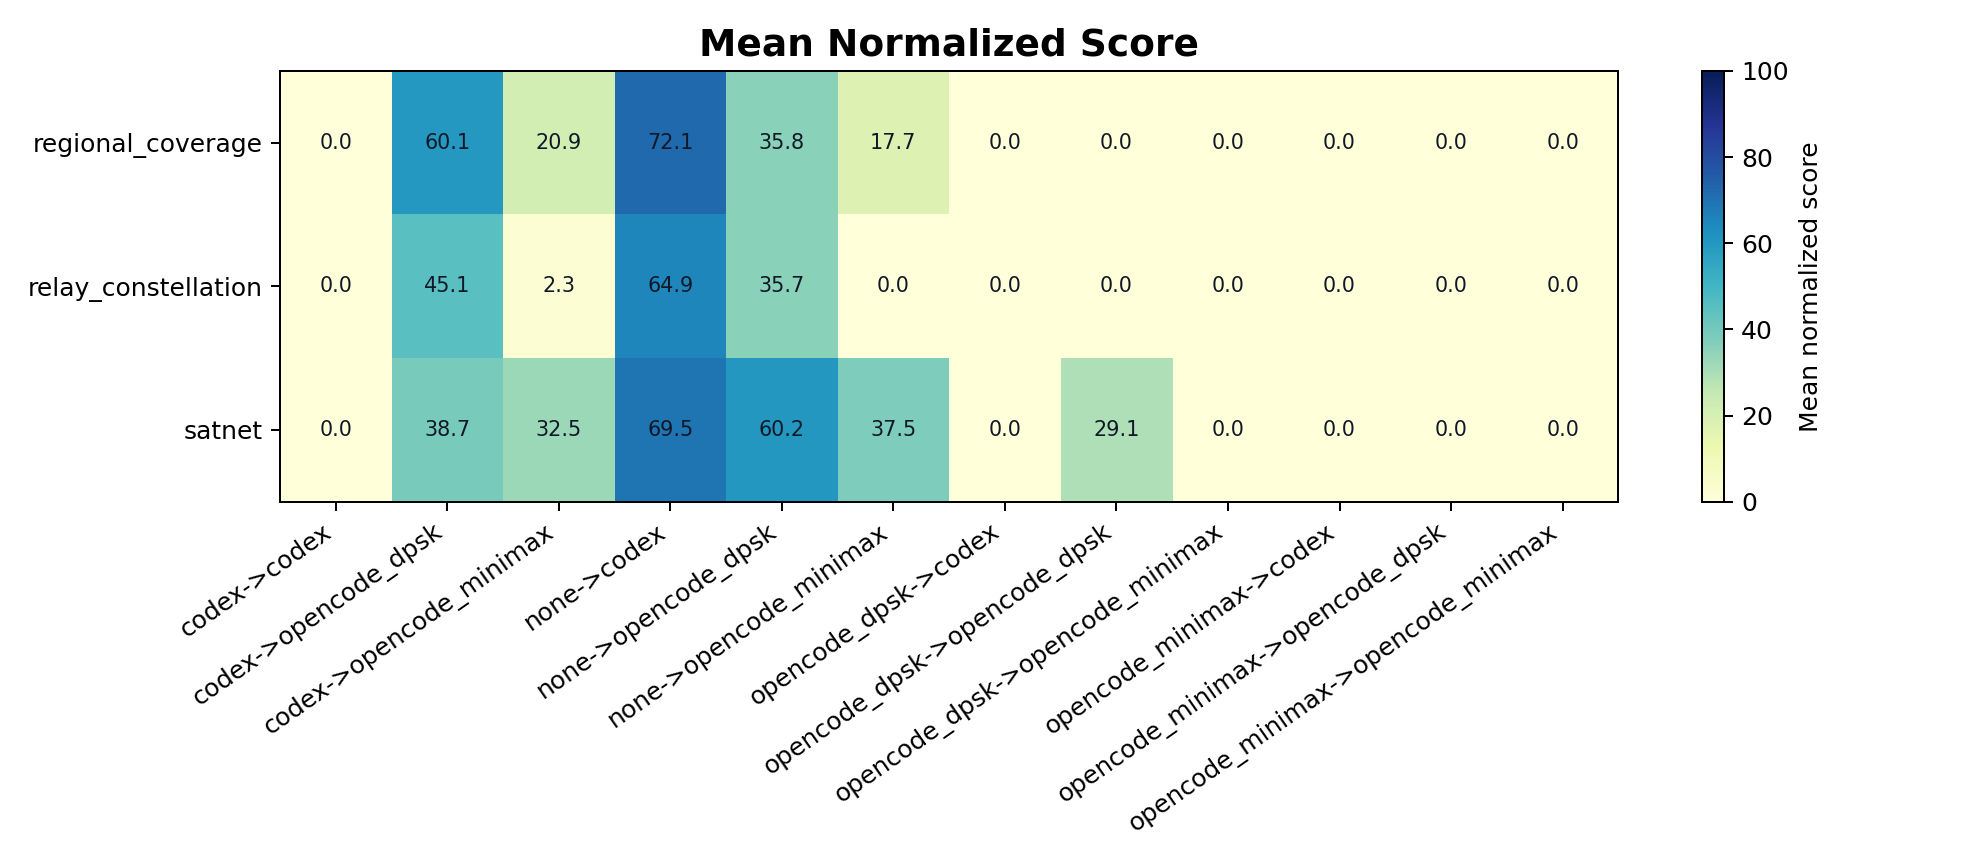
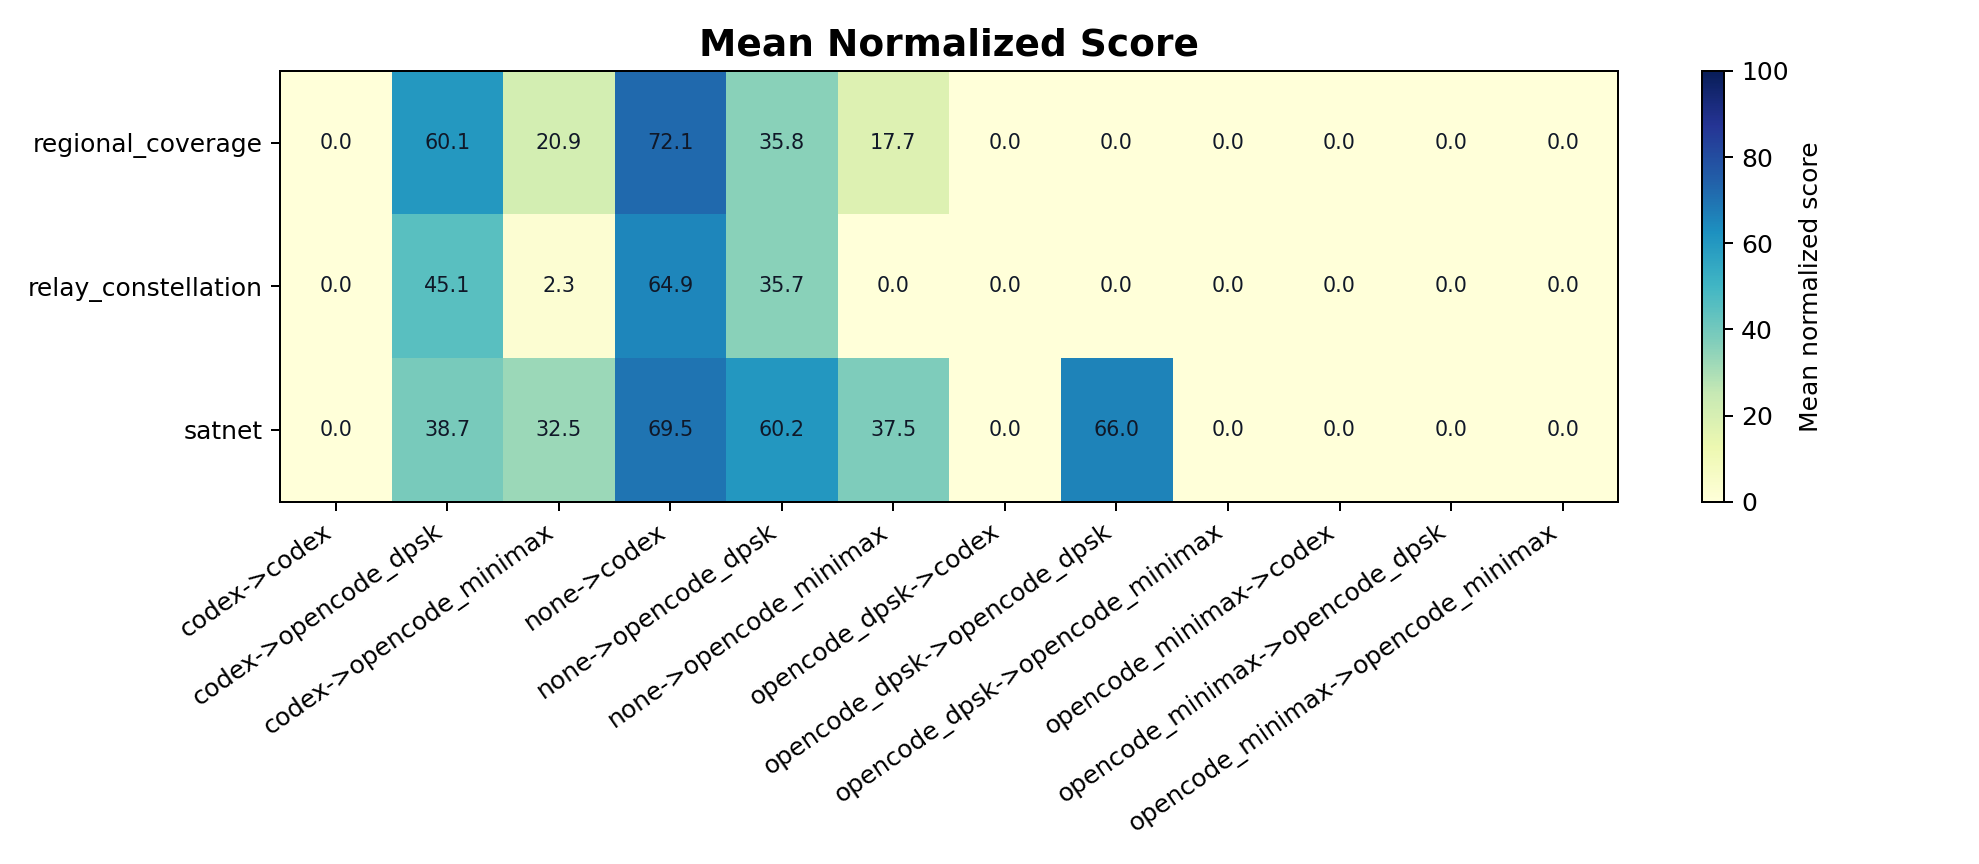
Update metrics and Claude report

Changed region(s): [[0.524, 0.4062, 0.6165, 0.5938]]

diff --git a/experiments/main_agentic/reports/case_studies/claude_private_worlds.md b/experiments/main_agentic/reports/case_studies/claude_private_worlds.md
@@ -13,6 +13,8 @@ Here, **authority** means the root workspace contract and checker:
 
 The central examples are `stereo_imaging / claude_code / test / case_0002` and `case_0005`, but the pattern also appears in all five Regional Coverage Claude runs, four of five Relay Constellation Claude runs, `aeossp_standard` case 0005, and SPOT-5/SatNet edge cases. The counterexamples are equally important: Claude can recover when it performs an authority sweep over `/app/workspace`, reads `README.md`, and lets `/app/workspace/verifier` override its private model.
 
+This report keeps the Claude focus, but it now also compares nearby non-Claude traces. The comparison matters because private solver models are not inherently bad. Every successful space agent needs some private propagation, geometry, search, or scheduling model. The failure studied here is narrower: the private model becomes the task authority.
+
 ## Evidence Base
 
 Aggregate outcomes come from:
@@ -28,6 +30,15 @@ Aggregate outcomes come from:
 The intended workspace contracts are the prompt fragments under `experiments/_fragments/prompts/*/README.default.md`. The behavioral evidence comes from local trace artifacts under `results/agent_runs/experiments/main_agentic/matrix/.../claude_code/...` and the tracked trace-viewer exports under `experiments/main_agentic/reports/traces/data/events/`.
 
 Because `results/*` paths are local run outputs, treat them as diagnostic evidence. The stable report-level claims are anchored to the tracked reports, prompt fragments, benchmark contracts, and trace-viewer exports.
+
+Cross-model comparison uses the companion case studies:
+
+- `experiments/main_agentic/reports/case_studies/minimax_cross_benchmark_failure.md`
+- `experiments/main_agentic/reports/case_studies/stereo_imaging_opencode_dpsk_authority_drift.md`
+- `experiments/main_agentic/reports/case_studies/stereo_imaging_kimi_cross_track_overlap.md`
+- `experiments/main_agentic/reports/case_studies/relay_constellation_codex_success.md`
+
+Those reports are not imported as unquestioned conclusions. They are useful because they anchor the same authority-discipline question in other harnesses: did the space agent read the root contract, run the packaged verifier, and demote its private model when the verifier disagreed?
 
 ## What "Second Sweep" Means Here
 
@@ -254,6 +265,64 @@ No-authority runs produce three kinds of failure:
 
 The third category is the easiest to miss in aggregate reports because it can look like a valid but weak run. Trace inspection shows it is often a contract failure, not an optimization failure.
 
+## Cross-Model Comparison
+
+The private-world behavior is **not Claude-only** if the phrase means "a space agent builds a private model and sometimes lets it outrank the verifier." That broader failure appears in Minimax, DPSK, and Kimi traces too. But the clean Claude pattern is narrower and more severe: Claude often never reaches the authority contradiction at all. It builds the wrong interface, validates the wrong interface, and exits normally inside that alternate benchmark.
+
+The useful comparison is:
+
+| Harness | Typical authority pattern | Private-world flavor | Contrast with Claude |
+| --- | --- | --- | --- |
+| `claude_code` | Often `case/` first; authority discovery is early, late, or absent depending on benchmark. | Premature authority closure: inferred schema and private validation become the whole task. | Cleanest sealed-world pattern. Bad runs often have no README/verifier contact before finalizing. |
+| `opencode_minimax` | Frequently reads README and runs verifier, but unevenly and often too late. | Verifier contact without verifier discipline: private simulator survives contradiction, or valid-zero output is accepted as enough. | Less sealed than Claude; the official verifier is often visible, but it does not reliably reorganize the solver. |
+| `opencode_dpsk` | Usually acquires the README/verifier in stereo traces. | Verifier-authority drift during optimization: private access/footprint model guides decisions after official feedback. | More grounded than Claude on schema, but brittle under geometry and hard-validity pressure. |
+| `kimi_cli` | Usually reads README/verifier in the stereo traces. | Frame-binding failure: private coordinate convention remains misaligned with verifier signs. | Not a full invented benchmark; it knows the contract but binds one crucial physical interface incorrectly. |
+| `codex` | In the relay positive control, reads README early, writes a minimal valid baseline, and repeatedly uses verifier metrics. | Private scripts are search heuristics, not authority. | The clean counterexample: private model exists, but stays subordinate to README/verifier. |
+
+This makes "private world" a graded phenomenon rather than a binary label.
+
+### Minimax: Contact Without Discipline
+
+Minimax is the closest non-Claude analogue, but its failure is less sealed. The companion Minimax report found 23 of 35 tracked Minimax traces reading `/app/workspace/README.md` and 23 running the packaged verifier. That is materially different from Claude's no-authority regional and bad stereo runs.
+
+The problem is what happens after contact. In `stereo_imaging / opencode_minimax / case_0002`, Minimax never reads the README/verifier and writes claimed stereo pairs covering targets; that is a Claude-like schema-private failure. But many other Minimax failures are subtler. In relay, all five traces read the README and run the verifier, yet the aggregate service fraction is zero. In revisit, Minimax can see verifier-reported off-nadir violations and still finalize because the solution "structure" looks right to its private Brahe-access proxy. In regional and AEOSSP, it often repairs the schema but continues trusting weak geometry or accepts valid files with near-zero objective value.
+
+So Minimax does have private-world moments, but its dominant pattern is not "never saw authority." It is "saw authority, then treated it as a debugger or filter rather than a governing contract."
+
+### DPSK: Grounded, Then Drifting
+
+The DPSK stereo traces are useful because they separate schema discovery from acceptance discipline. DPSK usually lists the workspace, reads the README, loads Brahe, and runs the local verifier. Its failure is therefore not the Claude failure of inventing `stereo_observations` without seeing that `actions` are required.
+
+DPSK's failures happen later. It builds a substantial private model for access windows, signed steering, strip overlap, and scheduling. In `case_0001`, the verifier reports a valid schedule with `coverage_ratio=0.0` and `normalized_quality=0.0`; DPSK still accepts hard validity as the deliverable even though all evaluated pairs have zero overlap. In `case_0004`, it finds a high-scoring derived product schedule but finalizes while the verifier still reports hard violations. In `case_0003`, the same harness succeeds after fixing the across-track sign convention and preserving final verifier validity.
+
+That pattern is weaker than Claude's sealed private world but still belongs in the same family: the private model becomes the active source of truth for the next action. The difference is that DPSK usually starts from the right authority hierarchy and then lets it decay.
+
+### Kimi: Contract-Aware, Frame-Misaligned
+
+Kimi's stereo failure is even less like Claude's. Kimi usually reads the README and uses the verifier. It knows the submission is supposed to be raw observation `actions`, and it spends much of the run trying to reconcile access, overlap, convergence, and pixel scale.
+
+The private component is a coordinate-frame model. Kimi expresses `off_nadir_across_deg` in the opposite signed cross-track convention from the verifier in three productive stereo cases. That can leave observations hard-valid while boresight strips miss the target AOIs, so the official metric collapses to zero or near-zero. Counterfactual mirroring of `off_nadir_across_deg` dramatically improves `case_0002` and `case_0005`.
+
+This is a private-model failure, but not a full private-world failure. Kimi is inside the real benchmark contract. It just binds one high-leverage physical interface incorrectly and then debug-loops around the wrong suspects for too long.
+
+### Codex: The Counterexample
+
+The relay Codex case study is the strongest control. Codex also writes private scripts, private geometry estimates, and case-specific search code. The difference is hierarchy. It reads the README early, writes a minimal `added_satellites` plus `actions` solution before optimizing, checks the verifier, and treats verifier metrics as the final arbiter.
+
+That is exactly the distinction this report needs. Private modeling is not the bug. Private modeling is normal search. The bug is allowing the private model to define validity, schema, or score after the workspace has already provided a stronger authority.
+
+### What Is Claude-Specific?
+
+The Claude-specific behavior in these traces is not "uses private models" and not "can be wrong." It is the combination of:
+
+1. **case-first closure**: `case/` feels complete enough to define the benchmark;
+2. **durable invented interface**: the first serious solver/output encodes the inferred schema;
+3. **self-reinforcing validation**: later scripts consume the same invented fields they emit;
+4. **polished final confidence**: the final message reports coherent private metrics absent from the official run;
+5. **normal completion**: the run can end with `end_turn`, not timeout or crash.
+
+Other harnesses show pieces of this. Minimax sometimes invents schema; DPSK and Kimi sometimes let private physics outrank verifier feedback. Claude's bad runs are distinctive because the alternate contract becomes complete before external authority enters the loop. The result is not merely an incorrect approximation to the verifier; it is an alternate task.
+
 ## Mechanism
 
 Claude's failure mode has four stages.
@@ -334,4 +403,3 @@ When auditing future Claude traces, check these in order:
 - Did the final stop reason show a normal `end_turn` or a provider/timeout stop?
 
 For `stereo_imaging` case 0005, the answers are the bad signature: `case/` first, no README, no packaged verifier, private `verify.py`, wrong top-level key, final `end_turn`. That is a normal completed Claude run, and that is exactly the problem.
-

diff --git a/experiments/memory_accumulation/reports/satnet.md b/experiments/memory_accumulation/reports/satnet.md
@@ -15,8 +15,8 @@ Generated from the current `memory_accumulation` aggregate artifacts.
 | none | opencode_dpsk | 5 | 5 | 0 | 5 | 60.23 | success: 5 |
 | none | opencode_minimax | 5 | 5 | 0 | 4 | 37.54 | success: 4, verifier_invalid: 1 |
 | opencode_dpsk | codex | 5 | 0 | 5 | 0 | 0.0000 | missing_artifact: 5 |
-| opencode_dpsk | opencode_dpsk | 5 | 2 | 3 | 2 | 29.15 | missing_artifact: 3, success: 2 |
-| opencode_dpsk | opencode_minimax | 5 | 0 | 5 | 0 | 0.0000 | missing_artifact: 5 |
+| opencode_dpsk | opencode_dpsk | 5 | 5 | 0 | 5 | 65.97 | success: 5 |
+| opencode_dpsk | opencode_minimax | 5 | 1 | 4 | 0 | 0.0000 | missing_artifact: 4, verifier_invalid: 1 |
 | opencode_minimax | codex | 5 | 0 | 5 | 0 | 0.0000 | missing_artifact: 5 |
 | opencode_minimax | opencode_dpsk | 5 | 0 | 5 | 0 | 0.0000 | missing_artifact: 5 |
 | opencode_minimax | opencode_minimax | 5 | 0 | 5 | 0 | 0.0000 | missing_artifact: 5 |
@@ -62,10 +62,10 @@ Generated from the current `memory_accumulation` aggregate artifacts.
 | opencode_dpsk | codex | test | W50_2018 | missing_artifact | missing_artifact | missing_artifact | - | - | 0 | - | - | - | - | - |
 | opencode_dpsk | opencode_dpsk | test | W10_2018 | present | success | valid | true | 3113.9 | 71.69 | 913.2 | 211 | 0.2154 | 0.4860 | 220 |
 | opencode_dpsk | opencode_dpsk | test | W20_2018 | present | success | valid | true | 3327.8 | 74.04 | 1097.8 | 226 | 0.2143 | 0.3956 | 254 |
-| opencode_dpsk | opencode_dpsk | test | W30_2018 | missing_artifact | missing_artifact | missing_artifact | - | - | 0 | - | - | - | - | - |
-| opencode_dpsk | opencode_dpsk | test | W40_2018 | missing_artifact | missing_artifact | missing_artifact | - | - | 0 | - | - | - | - | - |
-| opencode_dpsk | opencode_dpsk | test | W50_2018 | missing_artifact | missing_artifact | missing_artifact | - | - | 0 | - | - | - | - | - |
-| opencode_dpsk | opencode_minimax | test | W10_2018 | missing_artifact | missing_artifact | missing_artifact | - | - | 0 | - | - | - | - | - |
+| opencode_dpsk | opencode_dpsk | test | W30_2018 | present | success | valid | true | 3246.6 | 61.86 | 1126.4 | 204 | 0.2941 | 0.6433 | 273 |
+| opencode_dpsk | opencode_dpsk | test | W40_2018 | present | success | valid | true | 3796.7 | 62.02 | 1094.6 | 186 | 0.3384 | 0.5038 | 241 |
+| opencode_dpsk | opencode_dpsk | test | W50_2018 | present | success | valid | true | 2229.7 | 60.23 | 892.8 | 186 | 0.2922 | 0.7143 | 202 |
+| opencode_dpsk | opencode_minimax | test | W10_2018 | present | verifier_invalid | invalid | false | 1257.5 | 0 | 662.9 | 177 | 0.3990 | 1 | 177 |
 | opencode_dpsk | opencode_minimax | test | W20_2018 | missing_artifact | missing_artifact | missing_artifact | - | - | 0 | - | - | - | - | - |
 | opencode_dpsk | opencode_minimax | test | W30_2018 | missing_artifact | missing_artifact | missing_artifact | - | - | 0 | - | - | - | - | - |
 | opencode_dpsk | opencode_minimax | test | W40_2018 | missing_artifact | missing_artifact | missing_artifact | - | - | 0 | - | - | - | - | - |

diff --git a/experiments/skill_injection/reports/relay_constellation.md b/experiments/skill_injection/reports/relay_constellation.md
@@ -16,7 +16,7 @@ Generated from the current `skill_injection` aggregate artifacts.
 | --- | ---: | ---: | ---: | ---: | ---: | ---: | ---: | ---: | ---: | ---: | ---: |
 | compact_domain | 10 | 9 | 9 | 0.9000 | 0.3545 | 0.1328 | 2.5000 | 133.5 | 166.3 | 20.94 | missing_artifact: 1, success: 9 |
 | no_skill | 10 | 10 | 9 | 0.9000 | 0.2797 | 0.1800 | 6.9000 | 143.7 | 269.8 | 17.83 | success: 9, verifier_invalid: 1 |
-| skill_pack | 10 | 8 | 8 | 0.8000 | 0.2529 | 0.0981 | 5.2000 | 132.2 | 202.4 | 14.99 | missing_artifact: 2, success: 8 |
+| skill_pack | 10 | 9 | 8 | 0.8000 | 0.2529 | 0.0981 | 5.2000 | 132.2 | 202.4 | 14.99 | agent_failed: 1, missing_artifact: 1, success: 8 |
 
 ## Condition And Harness Summary
 
@@ -26,7 +26,7 @@ Generated from the current `skill_injection` aggregate artifacts.
 | compact_domain | opencode_minimax | 5 | 5 | 5 | 1.0000 | 0.1244 | 0.0000 | 1.2000 | 142.0 | 153.9 | 6.5313 | success: 5 |
 | no_skill | opencode_dpsk | 5 | 5 | 5 | 1.0000 | 0.5594 | 0.3600 | 8.4000 | 134.5 | 251.1 | 35.67 | success: 5 |
 | no_skill | opencode_minimax | 5 | 5 | 4 | 0.8000 | 0.0000 | 0.0000 | 5.0000 | - | - | 0.0000 | success: 4, verifier_invalid: 1 |
-| skill_pack | opencode_dpsk | 5 | 3 | 3 | 0.6000 | 0.3316 | 0.1850 | 7.6000 | 135.3 | 208.9 | 20.65 | missing_artifact: 2, success: 3 |
+| skill_pack | opencode_dpsk | 5 | 4 | 3 | 0.6000 | 0.3316 | 0.1850 | 7.6000 | 135.3 | 208.9 | 20.65 | agent_failed: 1, missing_artifact: 1, success: 3 |
 | skill_pack | opencode_minimax | 5 | 5 | 5 | 1.0000 | 0.1743 | 0.0111 | 2.8000 | 119.3 | 158.5 | 9.3431 | success: 5 |
 
 ## Cases
@@ -53,7 +53,7 @@ Generated from the current `skill_injection` aggregate artifacts.
 | no_skill | opencode_minimax | test | case_0003 | present | success | valid | true | 3290.8 | 0 | 0 | 0 | 8 | - | - | 0 |
 | no_skill | opencode_minimax | test | case_0004 | present | verifier_invalid | invalid | false | 3532.6 | 0 | 0 | 0 | 8 | - | - | 0 |
 | no_skill | opencode_minimax | test | case_0005 | present | success | valid | true | 2330.2 | 0 | 0 | 0 | 1 | - | - | 0 |
-| skill_pack | opencode_dpsk | test | case_0001 | missing_artifact | missing_artifact | missing_artifact | - | - | 3 | - | - | - | - | - | 0 |
+| skill_pack | opencode_dpsk | test | case_0001 | present | agent_failed | error | false | 1134.8 | 3 | - | - | - | - | - | 0 |
 | skill_pack | opencode_dpsk | test | case_0002 | missing_artifact | missing_artifact | missing_artifact | - | - | 3 | - | - | - | - | - | 0 |
 | skill_pack | opencode_dpsk | test | case_0003 | present | success | valid | true | 7110.4 | 3 | 0.5556 | 0.2500 | 0 | 122.1 | 164.0 | 33.54 |
 | skill_pack | opencode_dpsk | test | case_0004 | present | success | valid | true | 8750.2 | 3 | 0.3111 | 0 | 8 | 116.9 | 165.3 | 16.33 |

diff --git a/experiments/memory_accumulation/reports/overview.md b/experiments/memory_accumulation/reports/overview.md
@@ -23,8 +23,8 @@ Generated from the current `memory_accumulation` aggregate artifacts.
 | none | opencode_dpsk | 15 | 15 | 0 | 15 | 43.90 | success: 15 |
 | none | opencode_minimax | 15 | 15 | 0 | 13 | 18.42 | success: 13, verifier_invalid: 2 |
 | opencode_dpsk | codex | 15 | 0 | 15 | 0 | 0.0000 | missing_artifact: 15 |
-| opencode_dpsk | opencode_dpsk | 15 | 2 | 13 | 2 | 9.7154 | missing_artifact: 13, success: 2 |
-| opencode_dpsk | opencode_minimax | 15 | 0 | 15 | 0 | 0.0000 | missing_artifact: 15 |
+| opencode_dpsk | opencode_dpsk | 15 | 5 | 10 | 5 | 21.99 | missing_artifact: 10, success: 5 |
+| opencode_dpsk | opencode_minimax | 15 | 1 | 14 | 0 | 0.0000 | missing_artifact: 14, verifier_invalid: 1 |
 | opencode_minimax | codex | 15 | 0 | 15 | 0 | 0.0000 | missing_artifact: 15 |
 | opencode_minimax | opencode_dpsk | 15 | 0 | 15 | 0 | 0.0000 | missing_artifact: 15 |
 | opencode_minimax | opencode_minimax | 15 | 0 | 15 | 0 | 0.0000 | missing_artifact: 15 |
@@ -35,14 +35,15 @@ Generated from the current `memory_accumulation` aggregate artifacts.
 | --- | --- | --- | ---: | ---: | ---: | ---: | ---: | ---: |
 | regional_coverage | codex | opencode_dpsk | 5 | 35.79 | 60.08 | 24.28 | 4 | 1 |
 | relay_constellation | codex | opencode_dpsk | 5 | 35.67 | 45.09 | 9.4184 | 2 | 3 |
+| satnet | opencode_dpsk | opencode_dpsk | 5 | 60.23 | 65.97 | 5.7422 | 3 | 2 |
 | regional_coverage | codex | opencode_minimax | 5 | 17.73 | 20.94 | 3.2117 | 4 | 1 |
 | relay_constellation | codex | opencode_minimax | 5 | 0.0000 | 2.2633 | 2.2633 | 1 | 0 |
-| satnet | opencode_dpsk | opencode_dpsk | 2 | 72.67 | 72.87 | 0.1913 | 1 | 1 |
 
 ## Regressions
 
 | Benchmark | Memory Source | Harness | Pairs | No-Memory Mean | Memory Mean | Delta | Improved | Regressed |
 | --- | --- | --- | ---: | ---: | ---: | ---: | ---: | ---: |
+| satnet | opencode_dpsk | opencode_minimax | 1 | 55.81 | 0.0000 | -55.81 | 0 | 1 |
 | satnet | codex | opencode_minimax | 5 | 37.54 | 32.46 | -5.0753 | 1 | 4 |
 | satnet | codex | opencode_dpsk | 3 | 65.32 | 64.58 | -0.7386 | 1 | 2 |
 
